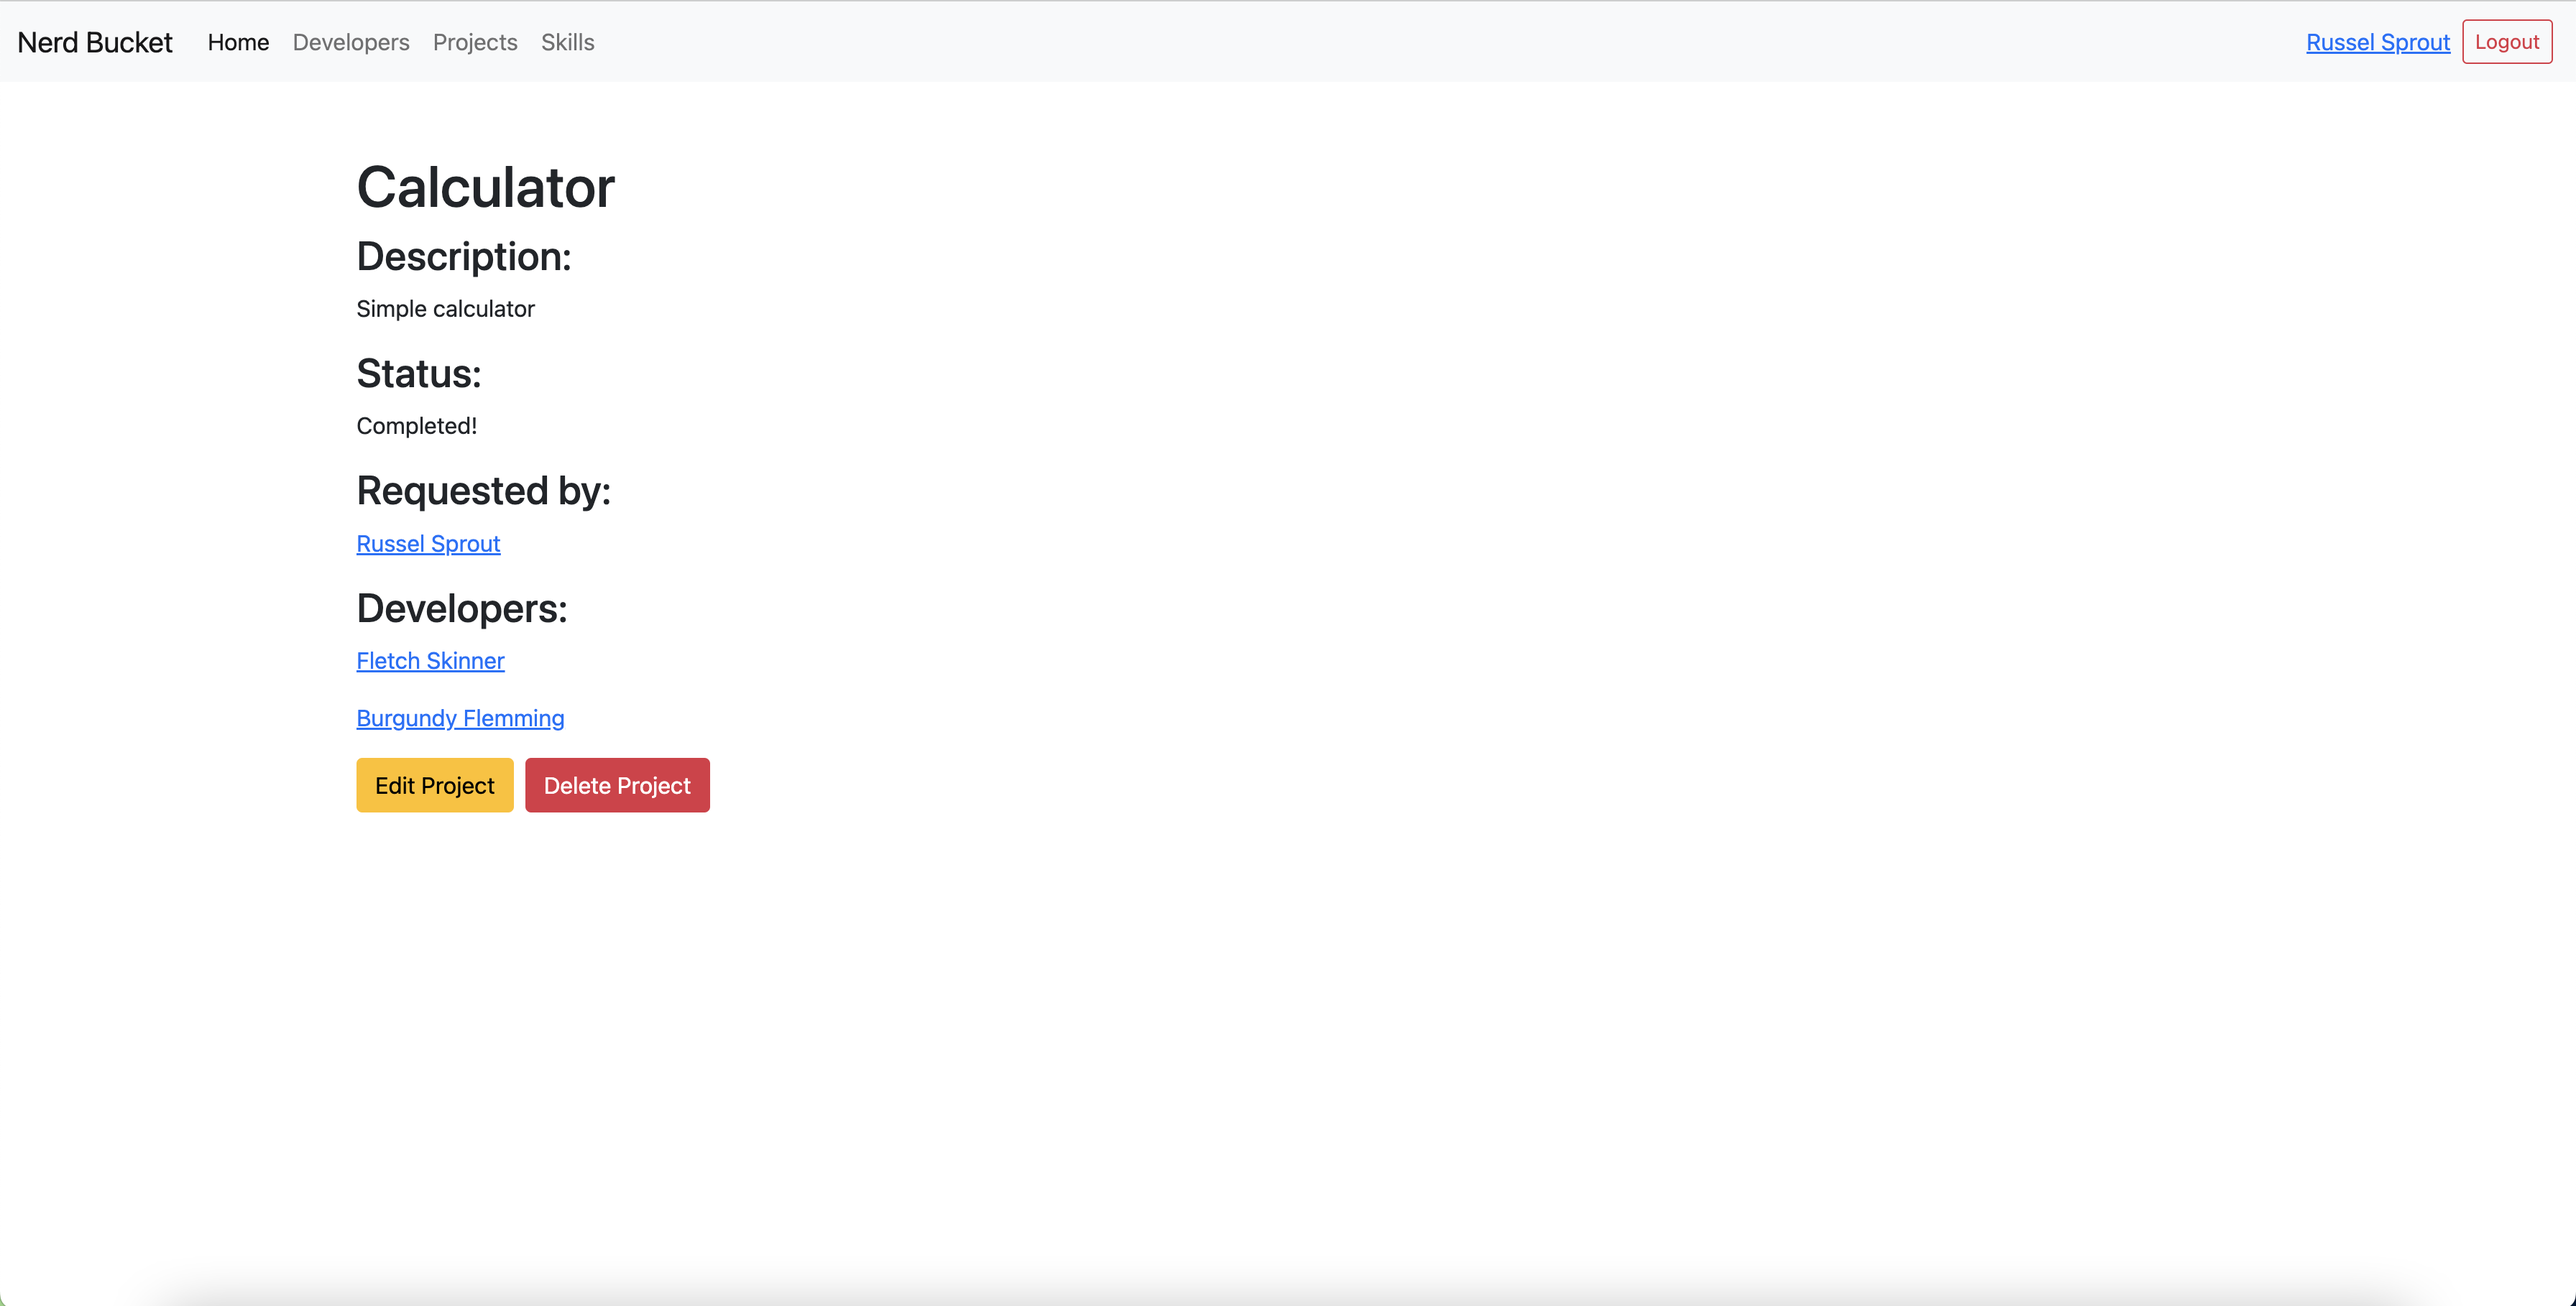
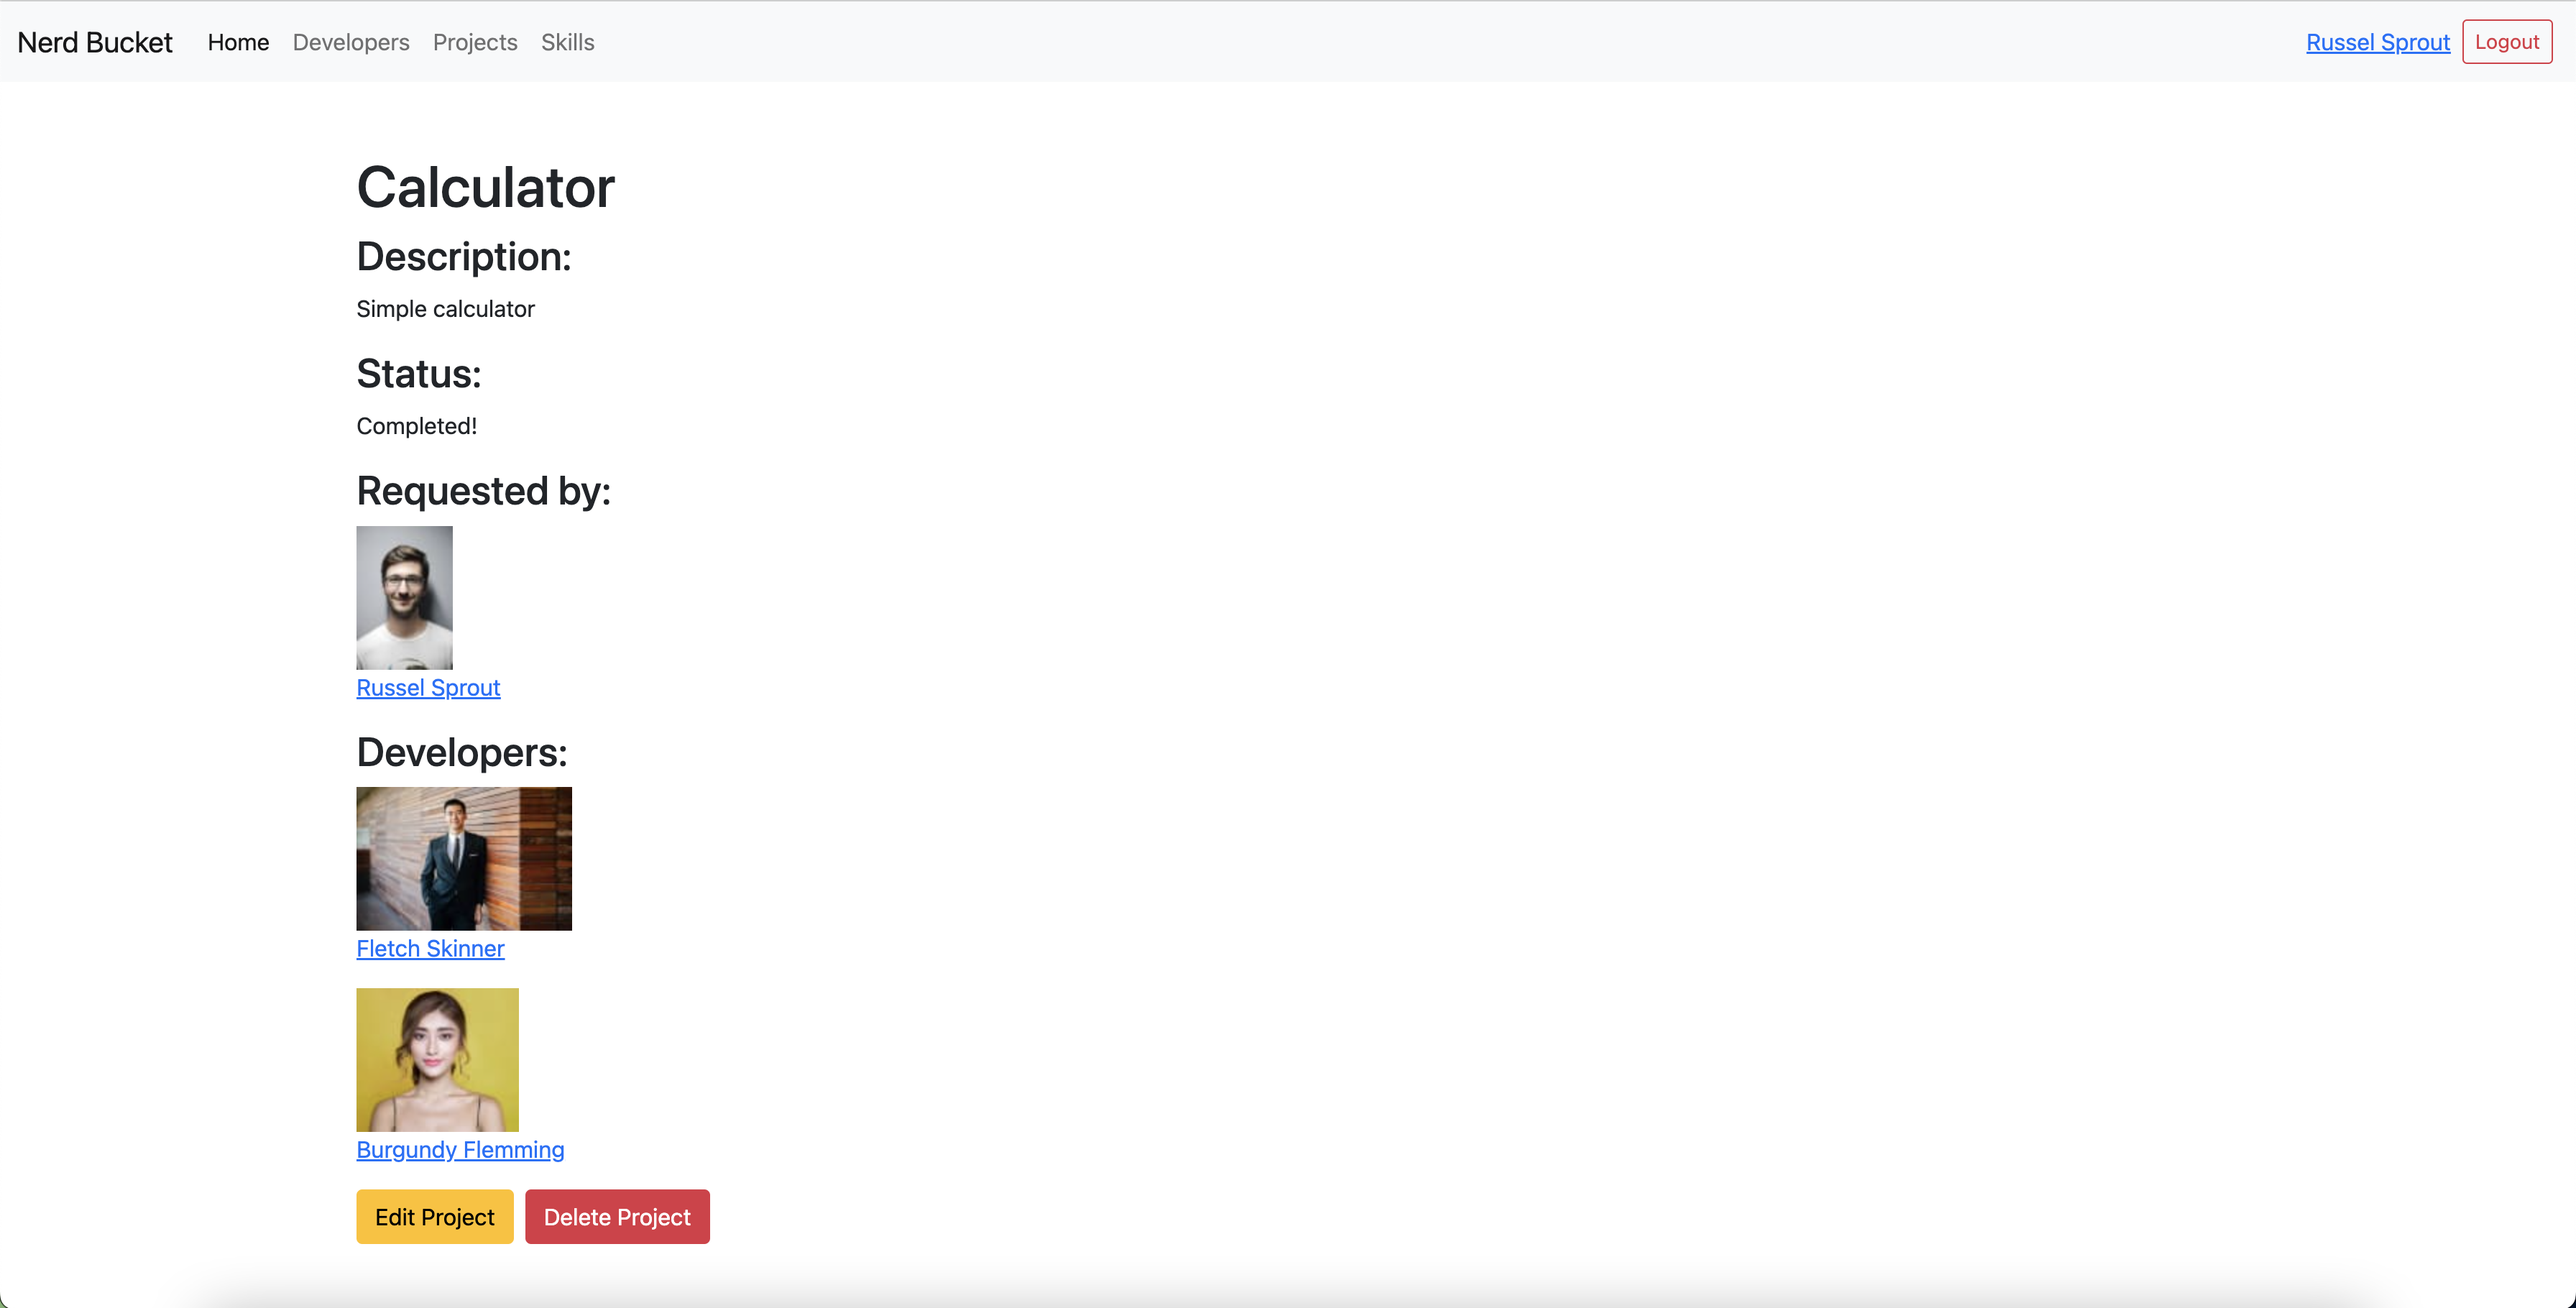
added user img to skills page and updated readme

Changed region(s): [[0.125, 0.4004, 0.2812, 0.9549]]

diff --git a/README.md b/README.md
@@ -59,7 +59,7 @@ https://trello.com/b/Bzz6qfvz/t2a2-marketplace-project
 
 ![User Page](docs/Users%20Page.png)
 
-![Developer Page](docs/Developers%20Page.png)
+![Developer Page](docs/Developers%20Page.png
 
 ![Projects Page](docs/Projects%20Page.png)
 
@@ -119,7 +119,7 @@ All the profile images on the site are handled through the Active record tables 
 See R14
 
 ## R20 - Describe the way tasks are allocated and tracked in your project
-Task for this project are tracked using Trello.
+Task for this project are tracked using Trello. User stories were created at the start of development with more being added as the complexity of the app increased.
 
 https://trello.com/b/Bzz6qfvz/t2a2-marketplace-project
 
